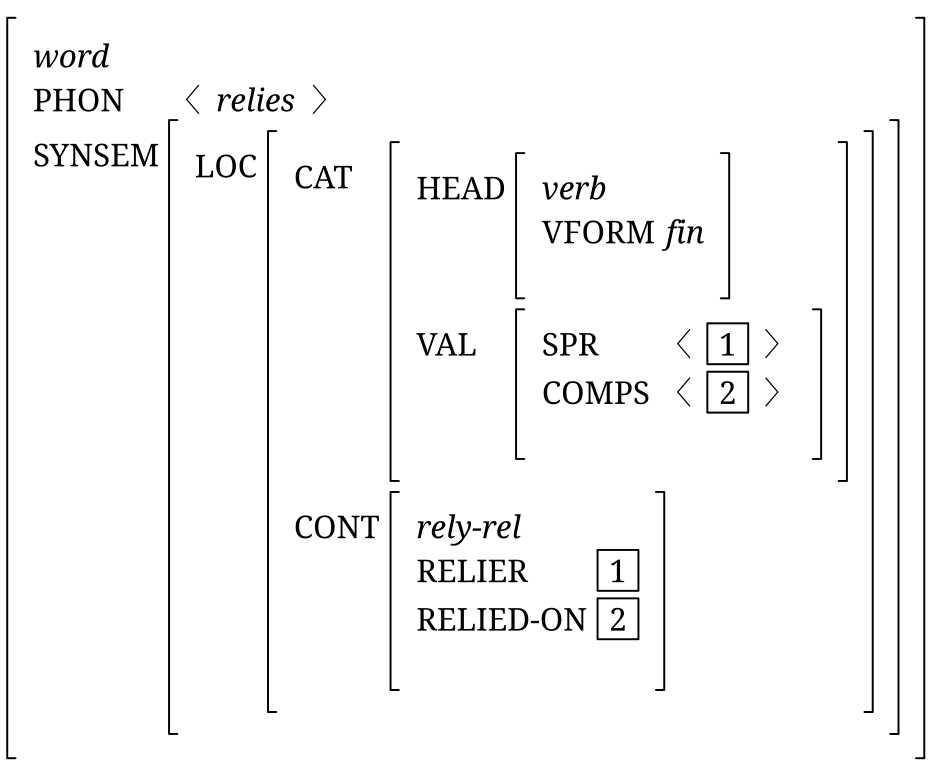
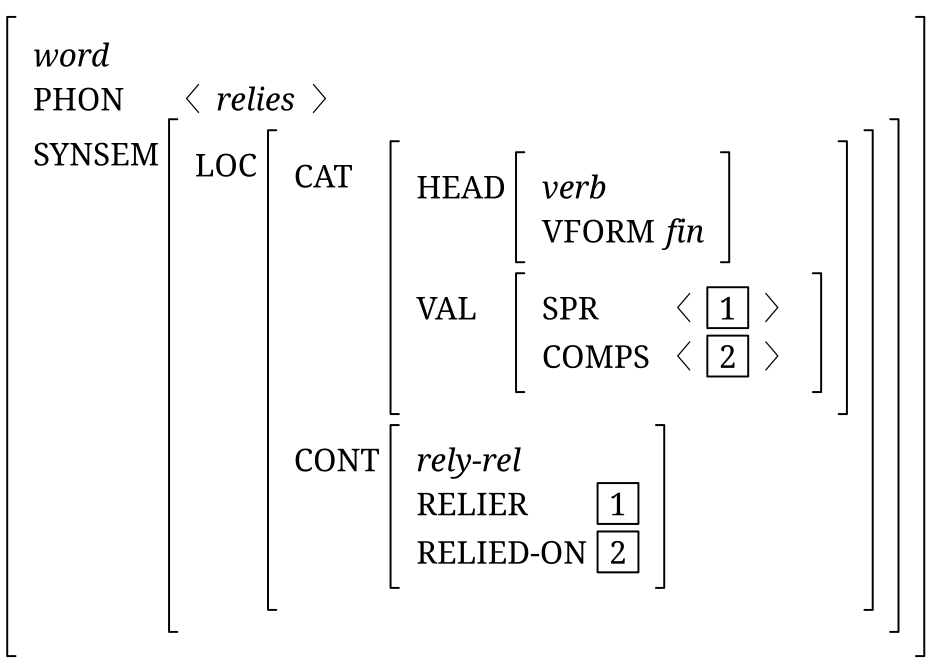
Draw a nested matrix at the height of its contents
The margin that holds the first line of a label clear of the connector above
it was applied by every call to measure_lines, so each nested block counted it
again although it already sits inside the label's margin. A one-row nested
matrix came out 103px tall where its row is 45, and the text sat high in a
bracket that reached far below it.

Three examples, in two frameworks the gallery did not cover: an LFG annotated
c-structure and the f-structure it maps to, and a DRT discourse representation
structure, which is what the rectangle enclosure and the horizontal rule were
always for.

diff --git a/lib/rsyntaxtree/element.rb b/lib/rsyntaxtree/element.rb
@@ -91,10 +91,14 @@ module RSyntaxTree
     # Measures a list of label lines, filling in the width and height of every
     # element and aligning the columns that \t marks. A nested matrix runs
     # through here again, which is what lets a feature structure hold another.
-    def measure_lines(lines)
+    # `nested` is set for a matrix inside a label. The first row of a label
+    # carries an extra margin that holds the text clear of the connector above
+    # it; a nested block sits inside that margin already, so counting it again
+    # would leave a bracket half a line taller than the rows it encloses.
+    def measure_lines(lines, nested: false)
       total_width = 0
       total_height = 0
-      one_bvm_given = false
+      one_bvm_given = nested
       lines.each do |content|
         content_width = 0
         case content[:type]
@@ -110,7 +114,7 @@ module RSyntaxTree
             # reports the size of the block it will occupy in this row: its own
             # content plus the brackets drawn around it.
             if e[:decoration].include?(:matrix)
-              inner = measure_lines(e[:matrix])
+              inner = measure_lines(e[:matrix], nested: true)
               e[:matrix_width] = inner[:width]
               e[:matrix_height] = inner[:height]
               e[:width] = inner[:width] + matrix_bracket_room * 2

diff --git a/CHANGELOG.md b/CHANGELOG.md
@@ -23,6 +23,15 @@
   links outnumber their labels — an ontology, a network of constructions —
   where a page of black lines buries the text. `grey` is accepted too.
 
+- Gallery examples for two more frameworks: LFG (an annotated c-structure and
+  the f-structure it maps to, after Kaplan & Bresnan 1982 and Bresnan 2001)
+  and DRT (a discourse representation structure, after Kamp 1981).
+
+### Fixed
+- A nested matrix was drawn about half a line taller than its contents. The
+  margin that holds the first line of a label clear of the connector above it
+  was counted again for every nested block, which already sits inside it.
+
 ## [1.8.2] - 2026-08
 
 ### Changed

diff --git a/docs/_examples/077.md b/docs/_examples/077.md
@@ -1,0 +1,38 @@
+---
+name: "077"
+caption: "Annotated c-structure"
+color: "off"
+category: "Lexical-Functional Grammar"
+polyline: "off"
+symmetrization: "off"
+connector: "auto"
+connector_height: "1.5"
+linewidth: "1"
+hide_default_connectors: "off"
+tidy: "low"
+font: "Noto Serif"
+reference: "Kaplan and Bresnan 1982; Bresnan 2001"
+---
+```
+[S
+  [NP\
+(↑SUBJ)\=↓
+    David
+  ]
+  [VP\
+↑\=↓
+    [V\
+↑\=↓
+      handed
+    ]
+    [NP\
+(↑OBJ)\=↓
+      Chris
+    ]
+    [NP\
+(↑OBJ_θ_)\=↓
+      a toy
+    ]
+  ]
+]
+```

diff --git a/docs/_examples/078.md b/docs/_examples/078.md
@@ -1,0 +1,24 @@
+---
+name: "078"
+caption: "F-structure"
+color: "off"
+category: "Lexical-Functional Grammar"
+polyline: "off"
+symmetrization: "off"
+connector: "bar"
+connector_height: "1.0"
+linewidth: "1"
+hide_default_connectors: "off"
+tidy: "low"
+font: "Noto Serif"
+reference: "Kaplan and Bresnan 1982; Bresnan 2001"
+---
+```
+[#PRED\t‘hand⟨SUBJ,<>OBJ,<>OBJ_θ_⟩’\
+  TENSE\t*past*\
+  SUBJ\t#(PRED\t‘David’#)\
+  OBJ\t#(PRED\t‘Chris’#)\
+  OBJ_θ_\t#(SPEC\t*a*\
+  PRED\t‘toy’#)
+]
+```

diff --git a/docs/_examples/079.md b/docs/_examples/079.md
@@ -1,0 +1,23 @@
+---
+name: "079"
+caption: "Discourse representation structure"
+color: "off"
+category: "Formal Semantics"
+polyline: "off"
+symmetrization: "off"
+connector: "bar"
+connector_height: "1.0"
+linewidth: "1"
+hide_default_connectors: "off"
+tidy: "low"
+font: "Noto Serif"
+reference: "Kamp 1981; Kamp and Reyle 1993"
+---
+```
+[##x<>y\
+---\
+farmer(x)\
+donkey(y)\
+own(x,<>y)
+]
+```
